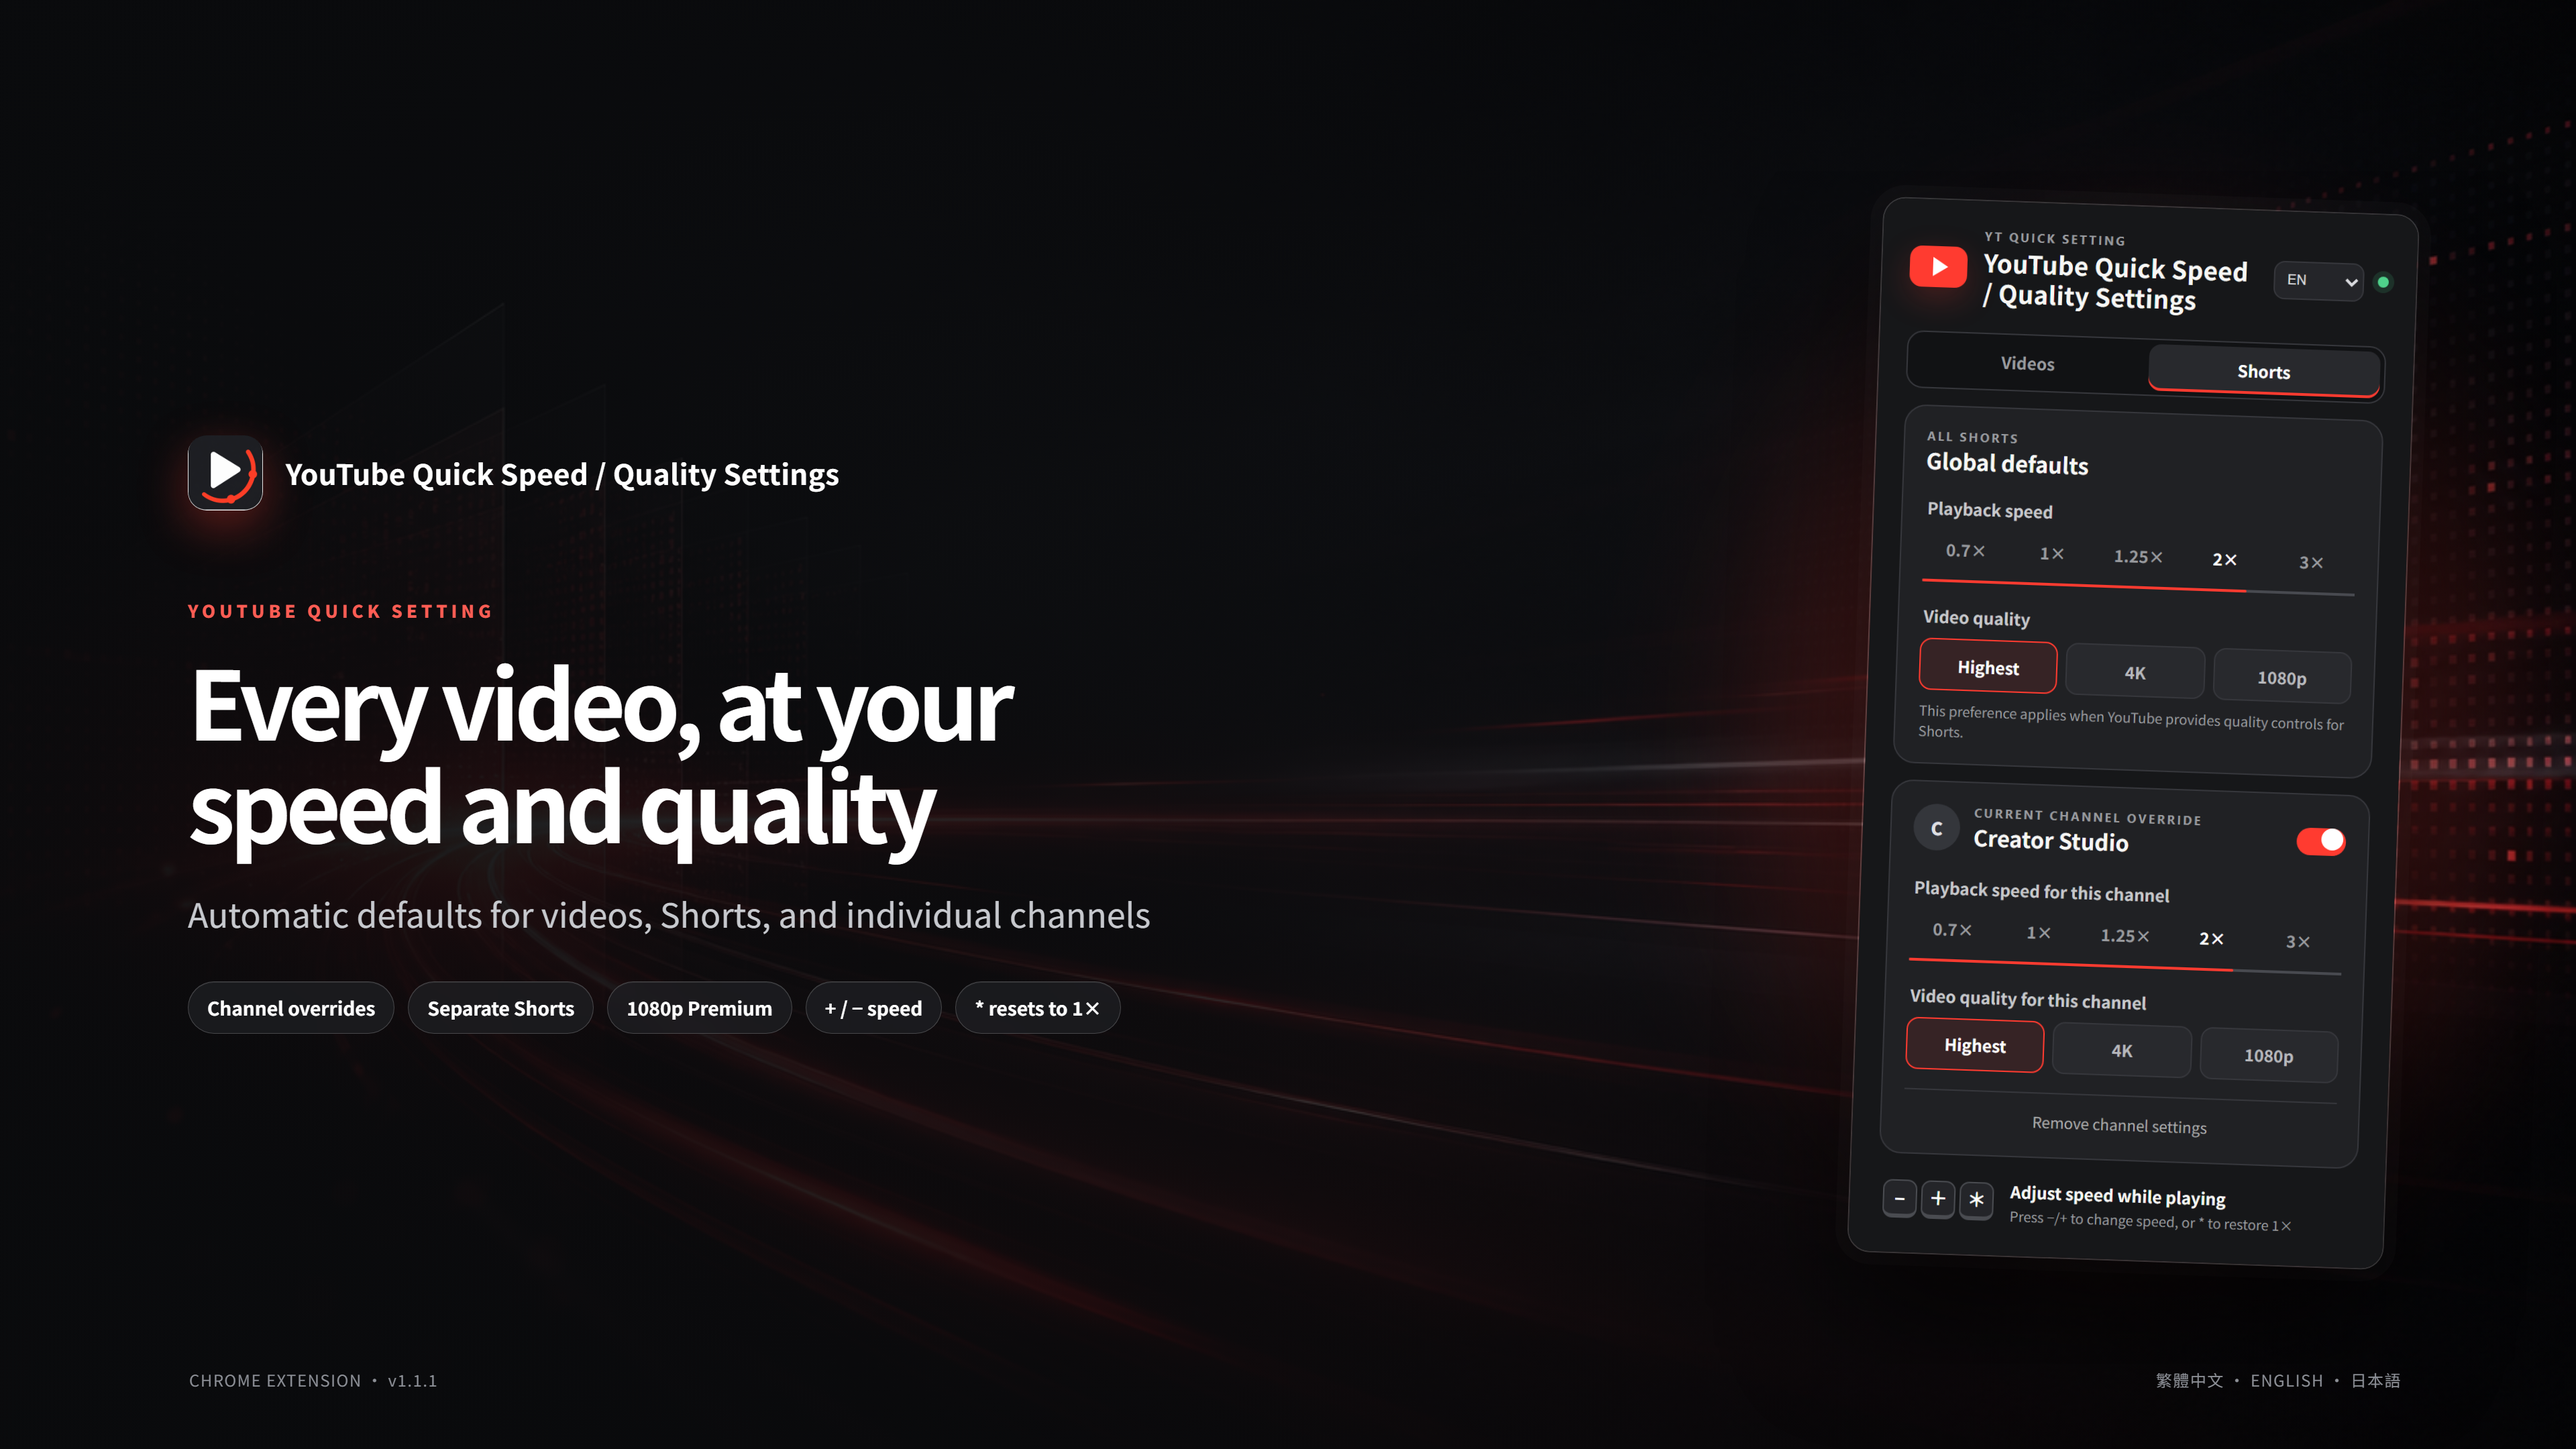
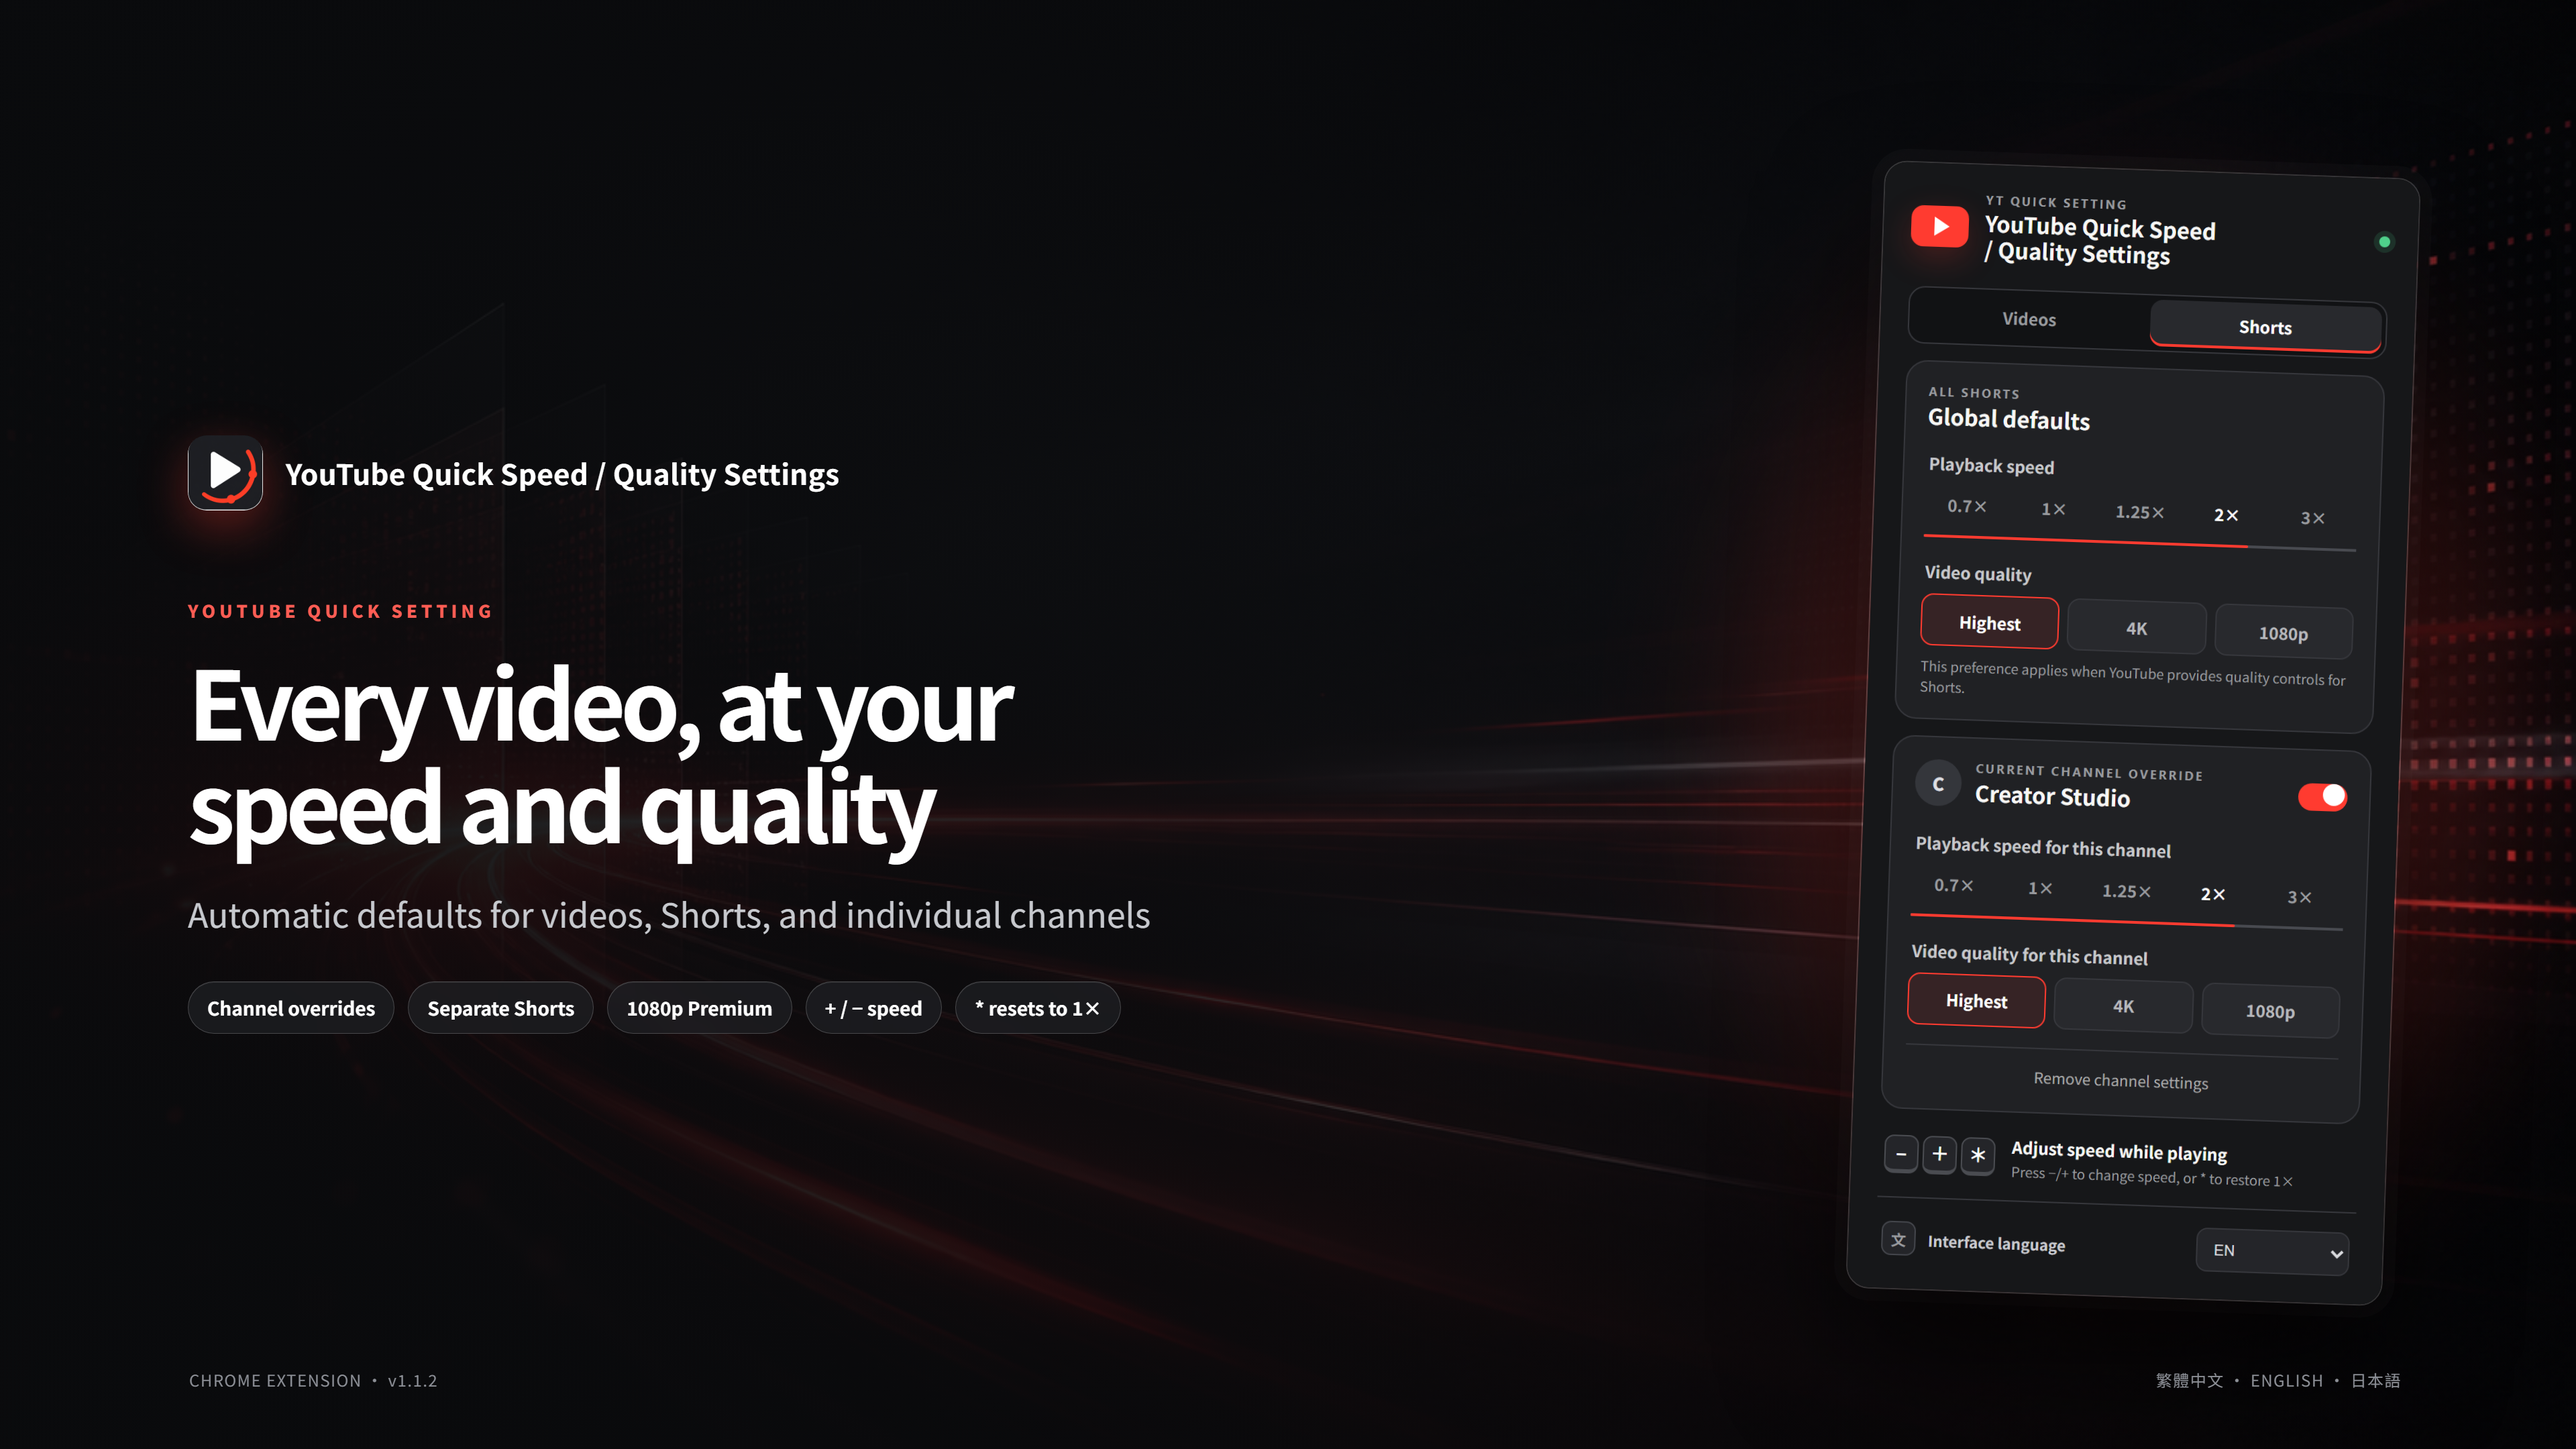
Fix long title layout and move language selector

diff --git a/popup.html b/popup.html
@@ -10,22 +10,11 @@
     <main class="panel">
       <header class="masthead">
         <div class="brand-mark" aria-hidden="true"><span></span></div>
-        <div>
+        <div class="brand-copy">
           <p class="eyebrow">YT QUICK SETTING</p>
           <h1 id="appTitle">YouTube 快速設定速度 / 畫質</h1>
         </div>
-        <div class="header-actions">
-          <label class="language-picker">
-            <span class="sr-only" id="languageLabel">介面語言</span>
-            <select id="languageSelect" aria-labelledby="languageLabel">
-              <option value="system">系統</option>
-              <option value="zh-Hant">繁中</option>
-              <option value="en">EN</option>
-              <option value="ja">日本語</option>
-            </select>
-          </label>
-          <span class="status-dot" id="statusDot" title="等待 YouTube 頁面"></span>
-        </div>
+        <span class="status-dot" id="statusDot" title="等待 YouTube 頁面"></span>
       </header>
 
       <nav class="type-switch" id="typeSwitch" aria-label="影片類型">
@@ -90,6 +79,21 @@
         <div class="key-pair" aria-hidden="true"><kbd>−</kbd><kbd>＋</kbd><kbd>＊</kbd></div>
         <p><strong id="shortcutTitle">播放時直接調速</strong><span id="shortcutDescription">按 −／+ 切換速度，按 * 恢復 1×</span></p>
       </footer>
+
+      <div class="language-settings">
+        <div class="language-label">
+          <span class="language-glyph" aria-hidden="true">文</span>
+          <span id="languageLabel">介面語言</span>
+        </div>
+        <label class="language-picker">
+          <select id="languageSelect" aria-labelledby="languageLabel">
+            <option value="system">系統</option>
+            <option value="zh-Hant">繁中</option>
+            <option value="en">EN</option>
+            <option value="ja">日本語</option>
+          </select>
+        </label>
+      </div>
     </main>
     <script src="popup.js"></script>
   </body>

diff --git a/popup.css b/popup.css
@@ -29,24 +29,24 @@ button, input { font: inherit; }
 
 .masthead {
   display: grid;
-  grid-template-columns: 42px 1fr auto;
+  grid-template-columns: 42px minmax(0, 1fr) 8px;
   gap: 12px;
   align-items: center;
   margin-bottom: 18px;
 }
 
-.header-actions { display: flex; align-items: center; gap: 10px; }
+.brand-copy { min-width: 0; }
 
 .language-picker select {
-  max-width: 76px;
-  height: 28px;
+  width: 112px;
+  height: 32px;
   border: 1px solid var(--line);
   border-radius: 8px;
   background: #242529;
   color: #d9dade;
   cursor: pointer;
-  font-size: 10px;
-  padding: 0 5px;
+  font-size: 11px;
+  padding: 0 8px;
 }
 
 .language-picker select:focus-visible, .type-switch button:focus-visible {
@@ -83,10 +83,17 @@ button, input { font: inherit; }
 }
 
 h1, h2 { margin: 0; }
-h1 { font-size: 18px; line-height: 1.25; letter-spacing: .01em; }
+h1 {
+  max-width: 270px;
+  font-size: 16px;
+  line-height: 1.22;
+  letter-spacing: 0;
+  text-wrap: balance;
+}
 h2 { font-size: 16px; line-height: 1.35; }
 
 .status-dot {
+  justify-self: end;
   width: 8px;
   height: 8px;
   border-radius: 50%;
@@ -308,6 +315,37 @@ kbd {
 .shortcut-hint strong, .shortcut-hint span { display: block; }
 .shortcut-hint strong { font-size: 12px; }
 .shortcut-hint span { color: var(--muted); font-size: 10px; margin-top: 2px; }
+
+.language-settings {
+  display: flex;
+  align-items: center;
+  justify-content: space-between;
+  gap: 14px;
+  margin-top: 12px;
+  padding: 14px 4px 0;
+  border-top: 1px solid var(--line);
+}
+
+.language-label {
+  display: flex;
+  align-items: center;
+  gap: 9px;
+  color: #c9cacf;
+  font-size: 11px;
+  font-weight: 650;
+}
+
+.language-glyph {
+  display: grid;
+  place-items: center;
+  width: 25px;
+  height: 25px;
+  border: 1px solid #44464c;
+  border-radius: 7px;
+  background: #242529;
+  color: var(--muted);
+  font-size: 11px;
+}
 
 .sr-only {
   position: absolute;

diff --git a/tests/popup-ui.test.js b/tests/popup-ui.test.js
@@ -4,7 +4,7 @@ const { chromium } = require("playwright");
 
 (async () => {
   const browser = await chromium.launch({ headless: true });
-  const page = await browser.newPage();
+  const page = await browser.newPage({ viewport: { width: 390, height: 900 } });
   await page.addInitScript(() => {
     globalThis.chrome = {
       i18n: { getUILanguage: () => "ja-JP" },
@@ -38,6 +38,20 @@ const { chromium } = require("playwright");
   await page.locator("#languageSelect").selectOption("en");
   assert.equal(await page.locator("#appTitle").innerText(), "YouTube Quick Speed / Quality Settings");
   assert.match(await page.locator("#shortcutDescription").innerText(), /restore 1×/);
+
+  const masthead = await page.locator(".masthead").boundingBox();
+  const title = await page.locator("#appTitle").boundingBox();
+  const status = await page.locator("#statusDot").boundingBox();
+  const shortcuts = await page.locator(".shortcut-hint").boundingBox();
+  const languageSettings = await page.locator(".language-settings").boundingBox();
+  assert.ok(masthead && masthead.height <= 62, "long localized titles should keep a compact header");
+  assert.ok(title && status && title.x + title.width <= status.x - 8, "title must not overlap the status indicator");
+  assert.ok(shortcuts && languageSettings && languageSettings.y > shortcuts.y + shortcuts.height - 1, "language selector should be the final settings row");
+  assert.equal(await page.locator(".masthead #languageSelect").count(), 0);
+  assert.equal(await page.locator(".language-settings #languageSelect").isVisible(), true);
+
+  await page.locator("#languageSelect").selectOption("zh-Hant");
+  assert.equal(await page.locator("#appTitle").innerText(), "YouTube 快速設定速度 / 畫質");
 
   const panel = await page.locator(".panel").boundingBox();
   assert.ok(panel && panel.width <= 390, "popup panel should fit the extension width");

diff --git a/scripts/render-marketing-assets.js b/scripts/render-marketing-assets.js
@@ -106,7 +106,7 @@ async function renderHero(browser, localeKey, locale, popupPath) {
       .shot{position:relative;justify-self:end;transform:rotate(2deg)}.shot:before{content:"";position:absolute;inset:10% -13%;border-radius:50%;background:#ff3b30;filter:blur(150px);opacity:.27}
       .shot img{position:relative;width:800px;border:2px solid rgba(255,255,255,.18);border-radius:34px;box-shadow:0 90px 180px rgba(0,0,0,.66),0 0 0 18px rgba(255,255,255,.025)}
       footer{position:absolute;z-index:3;left:282px;right:260px;bottom:86px;display:flex;justify-content:space-between;color:#8d9097;font-size:24px;letter-spacing:.06em}
-    </style></head><body><div class="noise"></div><main><section><div class="brand"><img src="${icon}"><strong>${locale.brandName}</strong></div><p class="eyebrow">${locale.eyebrow}</p><h1>${locale.title}</h1><p class="subtitle">${locale.subtitle}</p><div class="chips">${chips}</div></section><div class="shot"><img src="${popup}"></div></main><footer><span>CHROME EXTENSION · v1.1.1</span><span>繁體中文 · ENGLISH · 日本語</span></footer></body></html>`);
+    </style></head><body><div class="noise"></div><main><section><div class="brand"><img src="${icon}"><strong>${locale.brandName}</strong></div><p class="eyebrow">${locale.eyebrow}</p><h1>${locale.title}</h1><p class="subtitle">${locale.subtitle}</p><div class="chips">${chips}</div></section><div class="shot"><img src="${popup}"></div></main><footer><span>CHROME EXTENSION · v1.1.2</span><span>繁體中文 · ENGLISH · 日本語</span></footer></body></html>`);
   await page.screenshot({ path: path.join(outputDir, `promo-${localeKey}-4k.png`), animations: "disabled" });
   await page.close();
 }

diff --git a/docs/releases/v1.1.2.md b/docs/releases/v1.1.2.md
@@ -1,0 +1,22 @@
+# YouTube 快速設定速度 / 畫質 v1.1.2
+
+## 繁體中文
+
+- 修正長標題與語言選單互相擠壓造成的頂部排版異常。
+- 標題改為固定寬度的平衡換行，繁中、英文、日文皆維持穩定高度。
+- 將介面語言選單移至面板最下方的獨立設定列。
+- 更新三語操作畫面與 4K 宣傳素材。
+
+## English
+
+- Fixed header distortion caused by the longer product name competing with the language selector.
+- Added balanced title wrapping with a stable header height in all three languages.
+- Moved the interface-language selector to a dedicated row at the bottom of the popup.
+- Refreshed localized screenshots and 4K promotional assets.
+
+## 日本語
+
+- 長い製品名と表示言語メニューが重なり、ヘッダーが崩れる問題を修正しました。
+- 3言語すべてで高さが安定する、バランスの取れたタイトル改行を追加しました。
+- 表示言語メニューをパネル最下部の専用設定行へ移動しました。
+- 各言語の操作画面と 4K プロモーション素材を更新しました。
